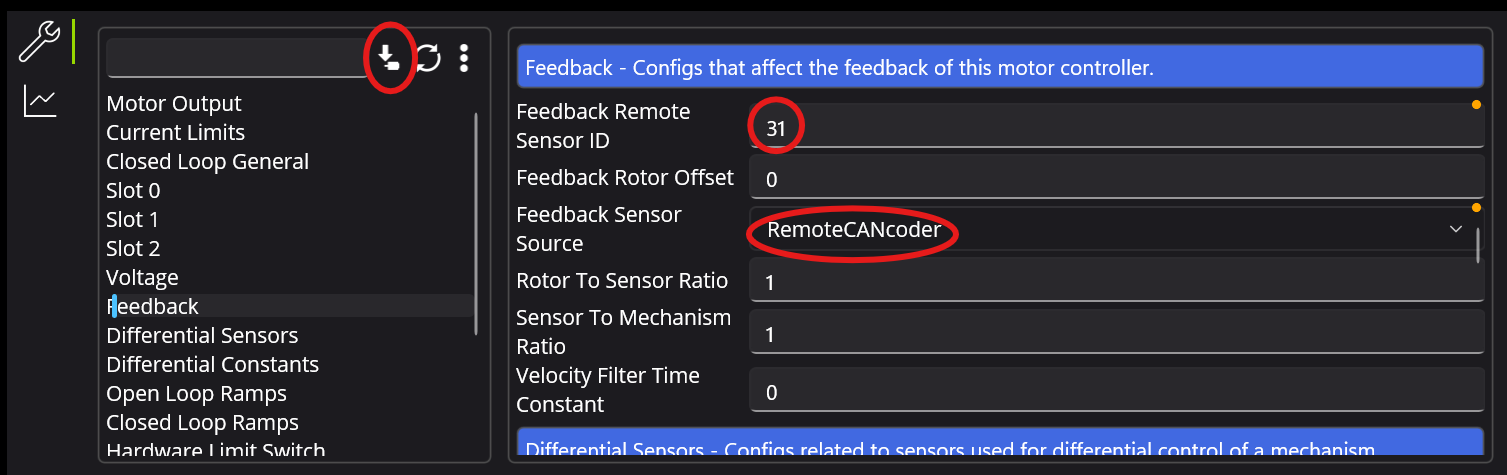
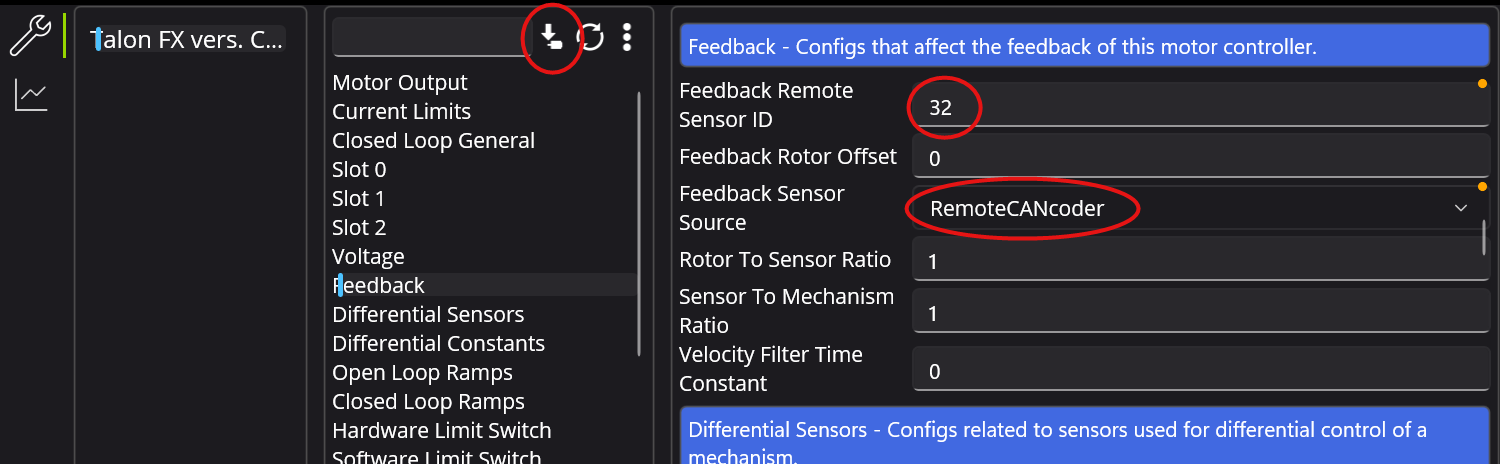
Circled Tuner X screenshots for Workshop 1 (#128)
* Add circled Tuner X 2026.4 screenshots to Workshop 1

Clear Faults, the Apply icon, plot grouping, Control Mode for
PositionVoltage, MotionMagicVoltage and VoltageOut, all taken from the
simulated bench. The link-the-encoder screenshot showed sensor ID 31; the
CANcoder is 32. Name Tuner X's controls as they are labelled: Apply is the
arrow icon, the request is Control Mode, and changing it disables the
device. ImageBlock takes a maxWidth for tall control-panel shots.

* Add Timespan to the spelling list

* Keep the spelling list in its original order

diff --git a/src/app/(workshop)/pid-control/page.tsx b/src/app/(workshop)/pid-control/page.tsx
@@ -7,6 +7,7 @@ import Quiz from "@/components/Quiz";
 import DocumentationButton from "@/components/DocumentationButton";
 import { BookOpen } from "lucide-react";
 import VideoEmbed from "@/components/VideoEmbed";
+import ImageBlock from "@/components/ImageBlock";
 import MechanismSelector from "@/components/lesson/MechanismSelector";
 import { Mech } from "@/components/lesson/Mechanism";
 import { lessonMetadata } from "@/lib/lessonMetadata";
@@ -92,18 +93,40 @@ export default function PIDControl() {
           </li>
           <li>
             Plot the target and the measured position, or velocity for a
-            flywheel, in one group so you can read the gap between them.
+            flywheel. Drag both into <strong>Group 1</strong> under{" "}
+            <strong>Enabled Signals</strong> so they share an axis, and set{" "}
+            <strong>Timespan</strong> to about <code>0.25</code>. It is in
+            minutes, and the default of 10 squeezes a move into a sliver.
           </li>
           <li>
-            In the control panel, pick a voltage-based position or velocity
-            request and select Slot 0. Enter a small target: 0.1 rotations for
-            position, 10 rps for velocity.
+            On the <strong>Control</strong> tab, set{" "}
+            <strong>Control Mode</strong> to{" "}
+            <Mech for="arm">
+              <code>PositionVoltage</code>
+            </Mech>
+            <Mech for="flywheel">
+              <code>VelocityVoltage</code>
+            </Mech>{" "}
+            and select Slot 0. Enter a small target: 0.1 rotations for position,
+            10 rps for velocity. Changing Control Mode switches the device back
+            to <strong>DISABLED</strong>, so enable it again.
           </li>
         </ol>
+        <ImageBlock
+          src="/images/setup/plot-group.png"
+          alt="Screenshot of the Tuner X plot with the Timespan box and Group 1, holding the target and measured position, circled."
+          caption="Both signals in Group 1, with a short Timespan. The bottom axis is a timestamp in seconds; only the spacing matters."
+        />
+        <ImageBlock
+          src="/images/setup/control-mode.png"
+          maxWidth={420}
+          alt="Screenshot of the Control tab with the DISABLED button and the PositionVoltage control mode circled."
+          caption="Control Mode on the Control tab. Click DISABLED to enable the device."
+        />
         <p>
-          Run these steps on your actual mechanism. Press <strong>Apply</strong>{" "}
-          after every gain change. A gain that was never applied never reaches
-          the motor.
+          Run these steps on your actual mechanism. Press <strong>Apply</strong>
+          , the arrow icon above the config list, after every gain change. A
+          gain that was never applied never reaches the motor.
         </p>
         <ol className="ml-5 list-decimal space-y-3">
           <li>

diff --git a/src/app/(workshop)/mechanism-setup/page.tsx b/src/app/(workshop)/mechanism-setup/page.tsx
@@ -119,6 +119,22 @@ export default function MechanismSetup() {
             duplicates.
           </li>
         </ol>
+        <ImageBlock
+          src="/images/setup/clear-faults.png"
+          alt="Screenshot of the Self Test tab with the Clear Faults button circled."
+          caption="Clear Faults is on the Self Test tab, next to Refresh."
+        />
+        <p>
+          A config change does nothing until you press <strong>Apply</strong>,
+          the arrow icon above the config list. Its tooltip says &quot;Apply and
+          flash configs&quot;. That saves the configs onto the device. It does
+          not touch the firmware.
+        </p>
+        <ImageBlock
+          src="/images/setup/apply-configs.png"
+          alt="Screenshot of the config panel with the Apply arrow icon circled and its tooltip showing."
+          caption="Apply is the arrow icon above the config list."
+        />
       </LessonSection>
 
       <Mech for="arm">
@@ -325,8 +341,8 @@ export default function MechanismSetup() {
             <Mech for="flywheel">
               flywheel TalonFX on <code>21</code>
             </Mech>{" "}
-            and set the control drop-down to <strong>Voltage Out</strong>, the
-            same request your code sends in{" "}
+            and set <strong>Control Mode</strong> to <code>VoltageOut</code>,
+            the same request your code sends in{" "}
             <Link
               href="/mechanisms#configs-and-requests"
               className="underline font-medium"
@@ -336,8 +352,9 @@ export default function MechanismSetup() {
             .
           </li>
           <li>
-            Enter <code>1 V</code>, click <strong>DISABLED</strong> to enable
-            the device, then disable after about a second. Watch the mechanism.
+            Enter <code>1 V</code> under <strong>Output (Volts)</strong>, click{" "}
+            <strong>DISABLED</strong> to enable the device, then disable after
+            about a second. Watch the mechanism.
           </li>
           <Mech for="arm" as="li">
             With the motor facing you, the arm should move counterclockwise, and
@@ -349,6 +366,12 @@ export default function MechanismSetup() {
           </Mech>
         </ol>
 
+        <ImageBlock
+          src="/images/setup/voltage-out.png"
+          maxWidth={420}
+          alt="Screenshot of the Control tab with the DISABLED button, the VoltageOut control mode and the Output (Volts) field circled."
+          caption="Control tab: VoltageOut, the Output (Volts) field, and the DISABLED button that enables the device."
+        />
         <Mech for="arm" as="p">
           If it turns clockwise, stop. Do not fix it here. One of the hand tests
           above was skipped or not applied, so go back and redo them.

diff --git a/src/app/(workshop)/motion-magic/page.tsx b/src/app/(workshop)/motion-magic/page.tsx
@@ -121,7 +121,8 @@ export default function MotionMagic() {
         />
         <ol className="ml-5 list-decimal space-y-3">
           <li>
-            Open <strong>Control</strong> and change the request type to{" "}
+            On the <strong>Control</strong> tab, set{" "}
+            <strong>Control Mode</strong> to{" "}
             <Mech for="arm">
               <code>MotionMagicVoltage</code>
             </Mech>
@@ -162,8 +163,19 @@ export default function MotionMagic() {
           <li>
             Press <strong>Apply</strong>.
           </li>
-          <li>Run a move and watch the plot.</li>
+          <li>
+            Enable the device again, since changing Control Mode disabled it,
+            then run a move and watch the plot.
+          </li>
         </ol>
+        <Mech for="arm">
+          <ImageBlock
+            src="/images/setup/motion-magic-control.png"
+            maxWidth={420}
+            alt="Screenshot of the Control tab with MotionMagicVoltage selected as the control mode and circled."
+            caption="Control Mode set to MotionMagicVoltage."
+          />
+        </Mech>
 
         <Mech for="flywheel">
           <Box

diff --git a/src/components/ImageBlock.tsx b/src/components/ImageBlock.tsx
@@ -17,6 +17,11 @@ interface ImageBlockProps {
   height?: number;
   className?: string;
   priority?: boolean;
+  /**
+   * Caps the figure's width, in px. For a tall, narrow screenshot such as
+   * the Tuner X control panel: at the full figure width it fills the screen.
+   */
+  maxWidth?: number;
 }
 
 export default function ImageBlock({
@@ -28,9 +33,13 @@ export default function ImageBlock({
   height = 600,
   className = "",
   priority = false,
+  maxWidth,
 }: ImageBlockProps) {
   return (
-    <figure className={`measure-wide m-0 ${className}`.trim()}>
+    <figure
+      className={`measure-wide m-0 ${className}`.trim()}
+      style={maxWidth ? { maxWidth } : undefined}
+    >
       {title && <div className="micro mb-3">{title}</div>}
 
       <div
